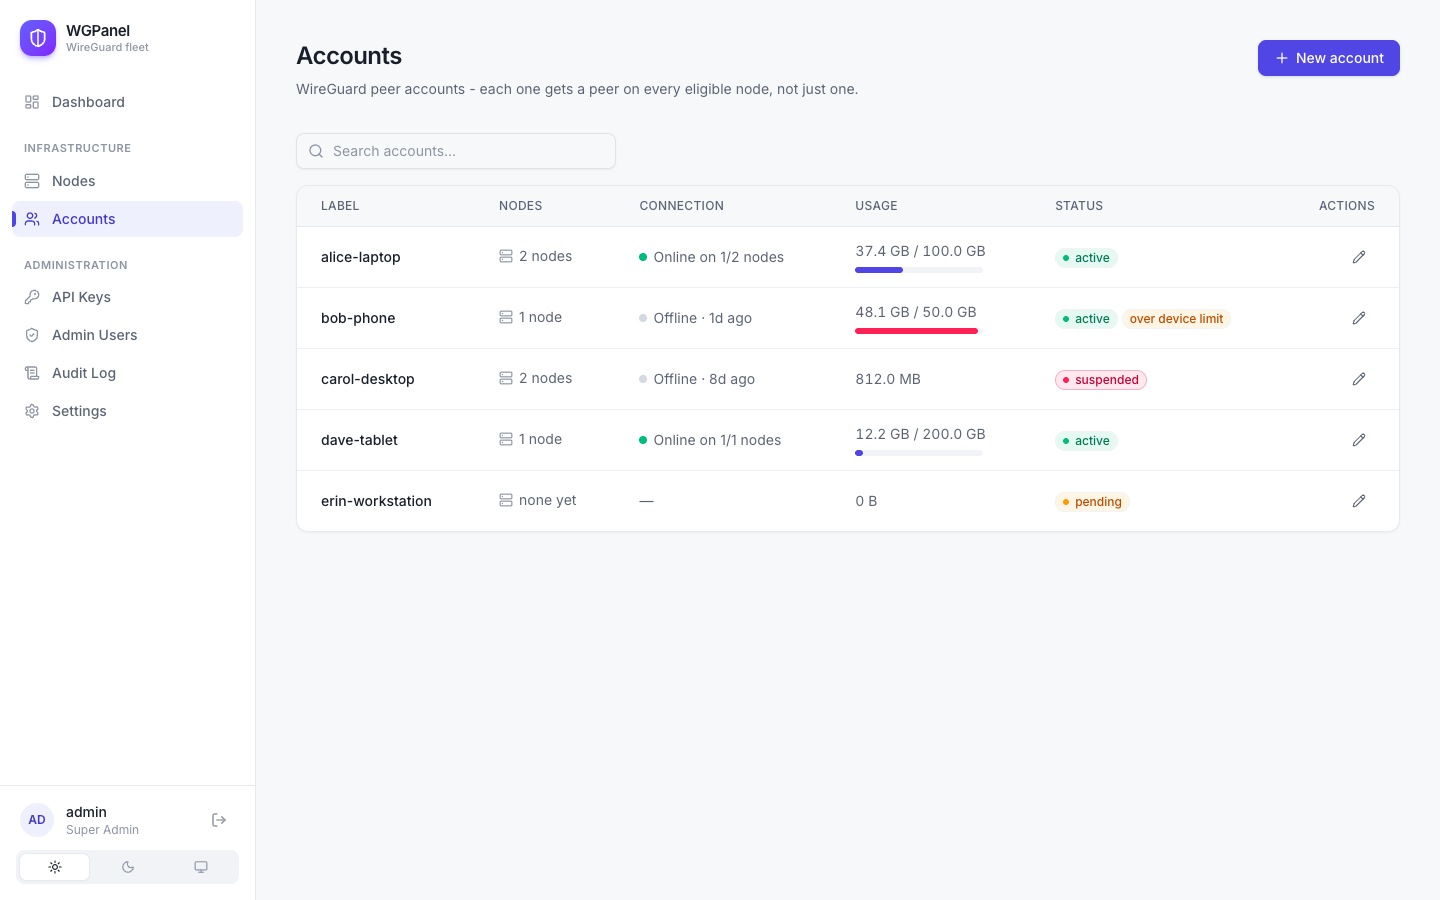
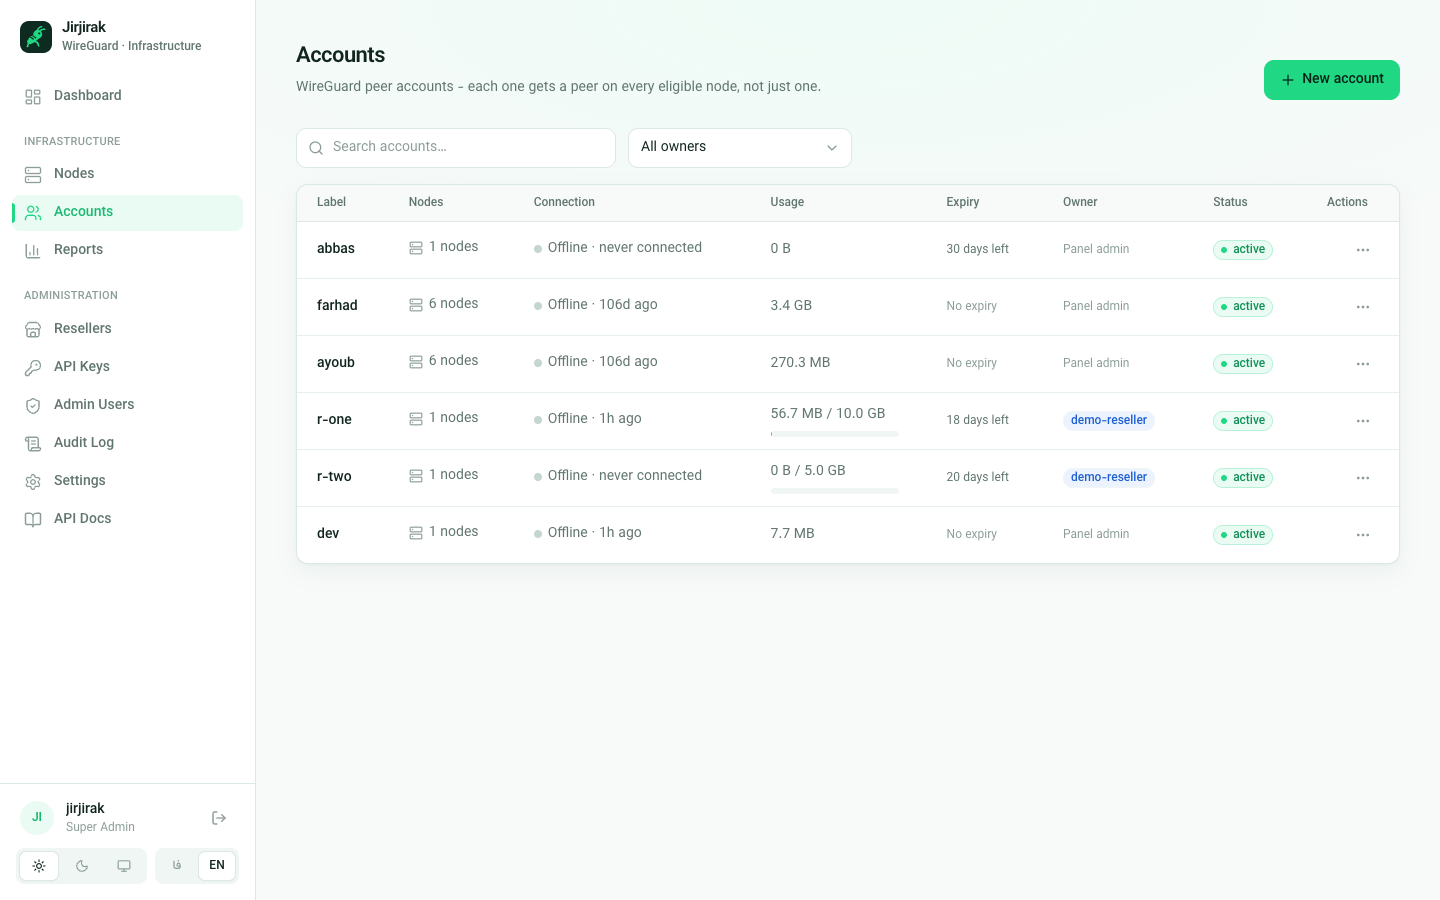
README: Jirjirak rebrand, resellers, reports, Persian UI, new screenshots
Rewrites the README for the current panel: feature list (resellers, reports,
node-local DNS, bot API signing), a relay section for networks that filter
WireGuard, and thirteen fresh screenshots including dark theme, Persian RTL
and the reseller view.

diff --git a/README.md b/README.md
@@ -1,14 +1,57 @@
-# WGPanel
+# Jirjirak WireGuard (WGPanel)
 
-WGPanel is a self-hosted admin panel for running your own WireGuard VPN service. It manages accounts (peers), servers (nodes), and gives you a real-time view of usage, connectivity, and node health — all from one web dashboard.
+<p align="center"><img src="docs/screenshots/login.png" alt="Jirjirak WireGuard sign-in screen" width="720"></p>
 
-- **Multi-node by default** — create an account once and it's usable across every server in your fleet, not pinned to a single node.
-- **Live monitoring** — per-account traffic charts, node CPU/RAM history, and online/offline status for every connection.
-- **Service tiers** — per-account bandwidth limits (enforced on every node via tc), data quotas, expiry, and device limits with optional auto-suspend when a config is shared across too many devices.
-- **Subscription URLs** — every account gets a stable link that always serves its latest config, picking the best node automatically (load/health/region-aware steering); rotate the link anytime without re-issuing keys.
-- **Self-service domain & TLS** — change the panel's domain from the Settings page; Caddy provisions the certificate automatically, no restart needed.
-- **Role-based admin accounts** — super admin, operator, and read-only support roles.
-- **A scoped API** for bots/resellers to provision accounts programmatically (e.g. from a Telegram sales bot), kept completely separate from WireGuard/infrastructure logic.
+Jirjirak WireGuard is a self-hosted panel for running your own WireGuard VPN service. It manages accounts (peers) and servers (nodes), lets resellers sell accounts under their own limits, and shows usage, connectivity and node health in one web dashboard. The panel is fully available in **English and Persian (RTL)**, in light and dark themes.
+
+- **Multi-node by default.** Create an account once and it works on every server in its node group, not just one node.
+- **Works out of the box.** Each node runs its own DNS resolver on the WireGuard gateway, and the agent checks the node's network and DNS at startup. Clients get internet as soon as they connect, even on networks that block public resolvers.
+- **Live monitoring.** Per-account traffic charts, node CPU/RAM history, and online/offline status for every connection.
+- **Reports.** Traffic, active and new accounts, quota usage, expiries, top accounts, per-node and per-reseller breakdowns over 24 hours to 1 year, with a table view and CSV export.
+- **Resellers.** Give partners their own login with a plan: maximum accounts, traffic credit, allowed node groups and a plan expiry date. They see and manage only their own accounts and can issue their own API keys.
+- **Service tiers.** Per-account data quota, expiry, device limit (with optional auto-suspend when a config is shared) and bandwidth limit, enforced on every node.
+- **Subscription URLs.** Every account gets a stable link that always serves its latest config from the best node (load, health and region aware). You can rotate the link anytime without re-issuing keys.
+- **Bot API.** Scoped, HMAC-signed API keys let a sales bot (e.g. Telegram) or a reseller's own tooling provision accounts. The API reference is served inside the panel.
+- **Self-service domain & TLS.** Change the panel domain from Settings. Caddy provisions the certificate automatically.
+- **Roles and audit log.** Super admin, operator, read-only support and reseller roles, with an audit trail of admin actions.
+
+## Screenshots
+
+**Dashboard.** Fleet status at a glance, with light and dark themes:
+
+| Light | Dark |
+| --- | --- |
+| ![Dashboard, light theme](docs/screenshots/dashboard.png) | ![Dashboard, dark theme](docs/screenshots/dashboard-dark.png) |
+
+**Persian (RTL).** Every page is translated. Switch with the language toggle in the sidebar. Dates use the Jalali calendar in Persian:
+
+| Dashboard | Reports |
+| --- | --- |
+| ![Dashboard in Persian](docs/screenshots/dashboard-fa.png) | ![Reports in Persian](docs/screenshots/reports-fa.png) |
+
+**Reports.** Pick a range, scope to all accounts, admin-owned accounts or one reseller, and export CSV:
+
+| Light | Dark |
+| --- | --- |
+| ![Reports, light theme](docs/screenshots/reports.png) | ![Reports, dark theme](docs/screenshots/reports-dark.png) |
+
+**Accounts.** The list shows usage against quota, expiry, owner and live status. The detail view has overview, devices, usage charts and inline editing, plus the subscription URL and per-node config/QR:
+
+| Accounts | Account detail |
+| --- | --- |
+| ![Accounts list](docs/screenshots/accounts.png) | ![Account detail](docs/screenshots/account-detail.png) |
+
+**Nodes.** Every WireGuard server with status, endpoint and capacity. When you add a node, the subnet picker disables ranges that are already used:
+
+| Nodes | New node |
+| --- | --- |
+| ![Nodes list](docs/screenshots/nodes.png) | ![New node dialog with subnet picker](docs/screenshots/new-node.png) |
+
+**Resellers.** Admins manage plans; resellers sign in to the same panel and see only their own accounts, plan usage and reports:
+
+| Resellers (admin) | Reseller's dashboard |
+| --- | --- |
+| ![Resellers page](docs/screenshots/resellers.png) | ![Reseller dashboard with plan card](docs/screenshots/reseller-dashboard.png) |
 
 ## Requirements
 
@@ -18,7 +61,7 @@ WGPanel is a self-hosted admin panel for running your own WireGuard VPN service.
 
 ## Installing the panel
 
-Run this on the server that will host the admin panel:
+Run this on the server that will host the panel:
 
 ```bash
 curl -fsSL https://raw.githubusercontent.com/iamfarhad/WGPanel/main/deploy/install.sh -o install.sh
@@ -27,20 +70,22 @@ sudo bash install.sh
 
 The installer will ask for:
 
-- **Panel domain** — must already point at this server's IP (used for automatic HTTPS via Caddy).
-- **Admin e-mail** — used for Let's Encrypt certificate notices.
-- **Super-admin username** — the account you'll use to log into the panel.
-- Whether to also set up WireGuard **on this same server** as your first node (recommended — you can add more servers later).
+- **Panel domain:** must already point at this server's IP (used for automatic HTTPS via Caddy).
+- **Admin e-mail:** used for Let's Encrypt certificate notices.
+- **Super-admin username:** the account you'll use to log into the panel.
+- Whether to also set up WireGuard **on this same server** as your first node. This is recommended; you can add more servers later.
 
-When it finishes, your panel is live at `https://<your-domain>`. The auto-generated super-admin password is printed once at the end of the install — save it immediately, since it's never shown again (you can also recover it later with `wgpanel show-bootstrap-admin`, as long as the container's log history hasn't rotated it out).
+When it finishes, your panel is live at `https://<your-domain>`. The installer prints the generated super-admin password once at the end, so save it right away. You can recover it later with `wgpanel show-bootstrap-admin`, as long as the container's log history hasn't rotated it out.
 
-> **Starting over?** Re-running `install.sh` keeps your existing `.env` and data. To wipe everything (containers, data volumes, secrets, and the self-node) and install fresh, run `sudo bash install.sh --fresh`. The panel binds high, rarely-used host ports by default (e.g. the node-agent port is `48443`, not the old `9090` that clashes with Cockpit/Prometheus); the installer also fails fast with a clear message if that port is already taken.
+> **Port 80 already in use?** If another web server owns port 80 on the host, set `PANEL_HTTP_PORT` to a free port in `/opt/wgpanel/.env` and run `docker compose up -d` again. Caddy then gets its certificate through the TLS-ALPN challenge on port 443 instead.
+
+> **Starting over?** Re-running `install.sh` keeps your existing `.env` and data. To wipe everything (containers, data volumes, secrets and the self-node) and install fresh, run `sudo bash install.sh --fresh`. The panel binds high, rarely used host ports by default (e.g. the node-agent port is `48443`). The installer stops with a clear message if a port is already taken.
 
 ## Adding more WireGuard servers
 
-Every node — including the panel's own server — is added the same way:
+Every node, including the panel's own server, is added the same way:
 
-1. In the panel, go to **Nodes → New node** and fill in its name, capacity, and WireGuard subnet.
+1. In the panel, go to **Nodes → New node** and fill in its name, capacity and WireGuard subnet.
 2. Click **Join token** to generate a one-time token.
 3. On the new server, run:
 
@@ -51,33 +96,36 @@ Every node — including the panel's own server — is added the same way:
 
 4. Paste in the control-plane address and the join token when prompted.
 
-The node will appear as **online** in the panel within a few seconds, and every existing account automatically gets a peer on it — no manual sync step.
+The node appears as **online** in the panel within a few seconds. Every existing account automatically gets a peer on it, with no manual sync step.
 
 > Re-registering a node's agent (rebuilt server, replaced hardware)? Generate an **unlimited** join token instead of a normal one (checkbox in the Join token dialog) so you don't have to reset anything manually.
 
-## Screenshots
+### Clients that can't reach a node directly
 
-The dashboard gives an at-a-glance view of the fleet — nodes online, accounts, data transferred, and live node capacity. Light and dark themes are both built in (switchable per-user):
+On networks that filter WireGuard to foreign servers, put a relay in front of the node. A relay is any server your users can reach that forwards UDP to the node's WireGuard port, for example over a reverse TCP tunnel. Then open **Nodes → Edit** and set the node's **Public endpoint** to the relay's `host:port`. Every config and subscription link the panel generates uses that endpoint from then on. The node itself, its subnet and its DNS stay as they are.
 
-| Light | Dark |
-| --- | --- |
-| ![Dashboard, light theme](docs/screenshots/dashboard.png) | ![Dashboard, dark theme](docs/screenshots/dashboard-dark.png) |
+## Resellers
 
-**Accounts** — search, per-account usage with quota bars, and live connection status:
+A super admin creates a reseller under **Resellers → New reseller** and sets the plan:
 
-![Accounts list](docs/screenshots/accounts.png)
+- **Max accounts:** how many accounts the reseller can hold at once.
+- **Traffic credit:** the total quota the reseller can hand out. Creating or renewing an account draws from it.
+- **Node groups:** which servers the reseller's accounts may use.
+- **Plan expiry:** after this date the reseller can no longer sign in or use their API keys. Their existing accounts keep working until they expire, unless an admin suspends them.
 
-**Account detail** — a tabbed view for overview, devices, usage charts, and inline editing (quota, device limit, bandwidth, expiry), plus the subscription URL and per-node config/QR:
+Resellers sign in to the same panel. They see a reduced menu (Dashboard, Accounts, Reports, API Keys, API Docs), only their own accounts, and a plan card with remaining capacity and days left. Each reseller can create API keys for their own bot; those keys are limited to the reseller's namespace and node groups.
 
-![Account detail](docs/screenshots/account-detail.png)
+## Bot API
 
-**Nodes** — every WireGuard server in the fleet, with status, region, endpoint, and capacity. Adding a node offers a curated list of peer subnets (already-used ranges are disabled) so you never collide with another node or a client's home LAN:
+Bots and integrations authenticate with an API key from **API Keys**. Each request is signed with HMAC-SHA256:
 
-| Nodes | New node |
-| --- | --- |
-| ![Nodes list](docs/screenshots/nodes.png) | ![New node dialog with subnet picker](docs/screenshots/new-node.png) |
+```
+X-API-Key:   <key_id>
+X-Timestamp: <unix seconds, within ±5 minutes>
+X-Signature: hex(HMAC_SHA256(secret, METHOD + "\n" + PATH + "\n" + TIMESTAMP + "\n" + BODY))
+```
 
-<p align="center"><img src="docs/screenshots/login.png" alt="Sign-in screen" width="420"></p>
+`PATH` is the URL path without the query string. `BODY` is the exact raw request body (empty for `GET`). The full reference is in [`docs/openapi.yaml`](docs/openapi.yaml) and is also served by every panel at `/api-docs.html`.
 
 ## Managing the stack
 
@@ -87,37 +135,39 @@ The installer places a `wgpanel` CLI on the panel server:
 wgpanel status               # container + API health
 wgpanel logs [service]       # tail logs
 wgpanel backup               # dump the database + .env to deploy/backups
-wgpanel update                # backup, pull latest images, redeploy, auto-rollback on failed health check
-wgpanel doctor                # disk space, container/DB/Redis health, TLS cert expiry, backup freshness
-wgpanel create-admin          # add another admin account
+wgpanel update               # backup, pull latest images, redeploy, auto-rollback on failed health check
+wgpanel doctor               # disk space, container/DB/Redis health, TLS cert expiry, backup freshness
+wgpanel create-admin         # add another admin account
 ```
 
 Run `wgpanel` with no arguments for the full command list.
 
 ## Using the panel
 
-- **Accounts** — create a WireGuard account, set a data quota/device limit/bandwidth limit/expiry, and download the `.conf` or scan the QR code from any device it has a peer on. Each account's detail view also shows its subscription URL and the devices recently seen using it.
-- **Nodes** — see live status, edit capacity/endpoint/region, and view CPU/RAM history for each server.
-- **Dashboard** — fleet-wide stats: nodes online, accounts online, active/suspended counts, total data transferred.
-- **Settings** — panel defaults (quota, device limit, node capacity) and live domain/TLS management.
-- **API Keys** — issue scoped, HMAC-signed keys for bots/resellers to create and manage accounts via the API.
+- **Dashboard:** fleet-wide stats (connected clients, active accounts, nodes online, traffic, suspended and soon-to-expire accounts), node capacity and recent accounts.
+- **Accounts:** create a WireGuard account, set a data quota, device limit, bandwidth limit and expiry, and download the `.conf` or scan the QR code. Days left and near-expiry badges show at a glance which accounts need renewing.
+- **Nodes:** see live status, edit capacity, endpoint and region, and view CPU/RAM history for each server.
+- **Reports:** traffic and account trends with per-node and per-reseller breakdowns, and a table view for every chart.
+- **Resellers:** create resellers and manage their plans.
+- **API Keys:** issue scoped, HMAC-signed keys for bots and resellers.
+- **Settings:** panel defaults (quota, device limit, node capacity, client DNS) and live domain/TLS management.
 
 ## For developers
 
-Architecture notes, the full API reference, and design docs for each feature area live in [`docs/`](docs) — start with [`docs/openapi.yaml`](docs/openapi.yaml) for the API surface.
+Architecture notes, the API reference and design docs for each feature area live in [`docs/`](docs). Start with [`docs/openapi.yaml`](docs/openapi.yaml) for the API surface.
 
 ### Repo layout
 
 | Path | What it is |
 | --- | --- |
-| `backend/` | Go 1.25 control plane. `cmd/api` (the panel API + node-agent server) and `cmd/agent` (the WireGuard node agent). SQL migrations in `internal/store/migrations`. |
-| `frontend/` | React 19 + TypeScript + Vite + Tailwind admin SPA. |
-| `deploy/` | Docker Compose, Caddy, the `install.sh` / `install-node.sh` installers, and the `wgpanel` management CLI. |
-| `docs/` | Product/architecture docs and `openapi.yaml`. |
+| `backend/` | Go 1.25 control plane. `cmd/api` (the panel API + node-agent server) and `cmd/agent` (the WireGuard node agent, including its DNS forwarder). SQL migrations in `internal/store/migrations`. |
+| `frontend/` | React 19 + TypeScript + Vite + Tailwind SPA. Translations live in `src/locales/` (English text is the key; Persian per page in `src/locales/fa/`). |
+| `deploy/` | Docker Compose, Caddy, the `install.sh` / `install-node.sh` installers and the `wgpanel` management CLI. |
+| `docs/` | Product/architecture docs, `openapi.yaml` and the README screenshots. |
 
 ### Local development
 
-Everything runs from `deploy/` with Docker Compose. Compose auto-merges `docker-compose.yml` (production) with `docker-compose.override.yml` (dev-only) whenever you run it from this directory, so a local `up` builds the images from source and makes the in-Docker WireGuard test node available — none of which ships to production.
+Everything runs from `deploy/` with Docker Compose. When you run Compose from this directory, it merges `docker-compose.yml` (production) with `docker-compose.override.yml` (dev-only). A local `up` therefore builds the images from source and makes the in-Docker WireGuard test node available. None of that ships to production.
 
 ```bash
 cd deploy
@@ -128,13 +178,13 @@ docker compose up -d --build  # build + start db, redis, api, frontend, caddy
 docker compose logs -f api    # the one-time bootstrap admin password is printed here
 ```
 
-Optionally run a WireGuard node in Docker (handy on macOS, where `install-node.sh` can't run natively). Generate a join token in the panel (**Nodes → New node → Join token**), put it in `.env` as `NODE_JOIN_TOKEN`, then:
+You can also run a WireGuard node in Docker, which is handy on macOS where `install-node.sh` can't run natively. Generate a join token in the panel (**Nodes → New node → Join token**), put it in `.env` as `NODE_JOIN_TOKEN`, then:
 
 ```bash
 docker compose --profile node up -d wg-node
 ```
 
-**Working on the frontend alone** — Vite's dev server proxies `/api` to the backend (default `http://127.0.0.1:48080`, matching `API_PORT`; override with `VITE_BACKEND_URL`), so you get HMR against the running API stack:
+**Working on the frontend alone.** Vite's dev server proxies `/api` to the backend, so you get hot reload against the running API stack. The default backend is `http://127.0.0.1:48080`, matching `API_PORT`; override it with `VITE_BACKEND_URL`.
 
 ```bash
 cd frontend
@@ -153,21 +203,23 @@ go vet ./...
 gofmt -l .         # must print nothing
 ```
 
-There's a browser-driven smoke test that exercises the whole panel against a running stack: `node frontend/e2e-smoke.mjs` (see the file header for the env vars it takes).
+Integration tests (resellers, reports) run against a real TimescaleDB when `WGPANEL_TEST_POSTGRES_DSN` is set and are skipped otherwise. `internal/httpapi/openapi_sync_test.go` fails if `docs/openapi.yaml` and `frontend/public/openapi.yaml` drift apart, so update both when you change the API.
+
+A browser-driven smoke test exercises the whole panel against a running stack: `node frontend/e2e-smoke.mjs` (see the file header for the env vars it takes).
 
 ### Production vs. dev Compose
 
-- **`docker-compose.yml`** is production-only: five services (db, redis, api, frontend, caddy), pinned image digests, bounded logs, per-service memory limits, `no-new-privileges`, and healthchecks. It pulls `API_IMAGE` / `FRONTEND_IMAGE` and never builds. `install.sh` copies just this file to the server.
+- **`docker-compose.yml`** is production-only. It runs five services (db, redis, api, frontend, caddy) with pinned image digests, bounded logs, per-service memory limits, `no-new-privileges` and healthchecks. It pulls `API_IMAGE` / `FRONTEND_IMAGE` and never builds. `install.sh` copies just this file to the server.
 - **`docker-compose.override.yml`** adds the local `build:` directives and the dev `wg-node`. It lives only in the repo and is never deployed.
 
-Per-container memory ceilings are tunable via `.env` (`DB_MEM_LIMIT`, `REDIS_MEM_LIMIT`, `API_MEM_LIMIT`, …) — see the comments in `.env.example`.
+Per-container memory ceilings are tunable via `.env` (`DB_MEM_LIMIT`, `REDIS_MEM_LIMIT`, `API_MEM_LIMIT`, …). See the comments in `.env.example`; small 1 GB hosts run fine with tighter limits.
 
 ### Images & CI
 
-Pushes to `main` build and publish three images to GHCR via `.github/workflows/build-{api,frontend,node}.yml`:
+Pushes to `main` build and publish three images to GHCR via `.github/workflows/build-{api,frontend,node}.yml`. Each image is tagged `latest` and `sha-<commit>`:
 
-- `wgpanel-api` — the control plane (also contains the agent binary).
-- `wgpanel-frontend` — the SPA served by nginx.
-- `wgpanel-node` — the production WireGuard node (`deploy/node.Dockerfile`), run as a container by both installers.
+- `ghcr.io/iamfarhad/wgpanel-api`: the control plane (also contains the agent binary).
+- `ghcr.io/iamfarhad/wgpanel-frontend`: the SPA served by nginx.
+- `ghcr.io/iamfarhad/wgpanel-node`: the production WireGuard node (`deploy/node.Dockerfile`), run as a container by both installers.
 
-Both installers deploy nodes as **production Docker containers** (bridge networking, the container NATs client traffic in its own namespace). If the published `wgpanel-node` image can't be pulled (e.g. before CI has run, or a private package), they fall back to building it from source on the host. If you fork the repo, update `API_IMAGE` / `FRONTEND_IMAGE` / `NODE_IMAGE` in `.env.example` (and make the GHCR packages public).
+Pull requests run the same tests without publishing. Both installers deploy nodes as **production Docker containers**: bridge networking, with the container NATing client traffic in its own namespace. If the published `wgpanel-node` image can't be pulled (for example before CI has run, or from a private package), they fall back to building it from source on the host. If you fork the repo, update `API_IMAGE` / `FRONTEND_IMAGE` / `NODE_IMAGE` in `.env.example` and make the GHCR packages public.
